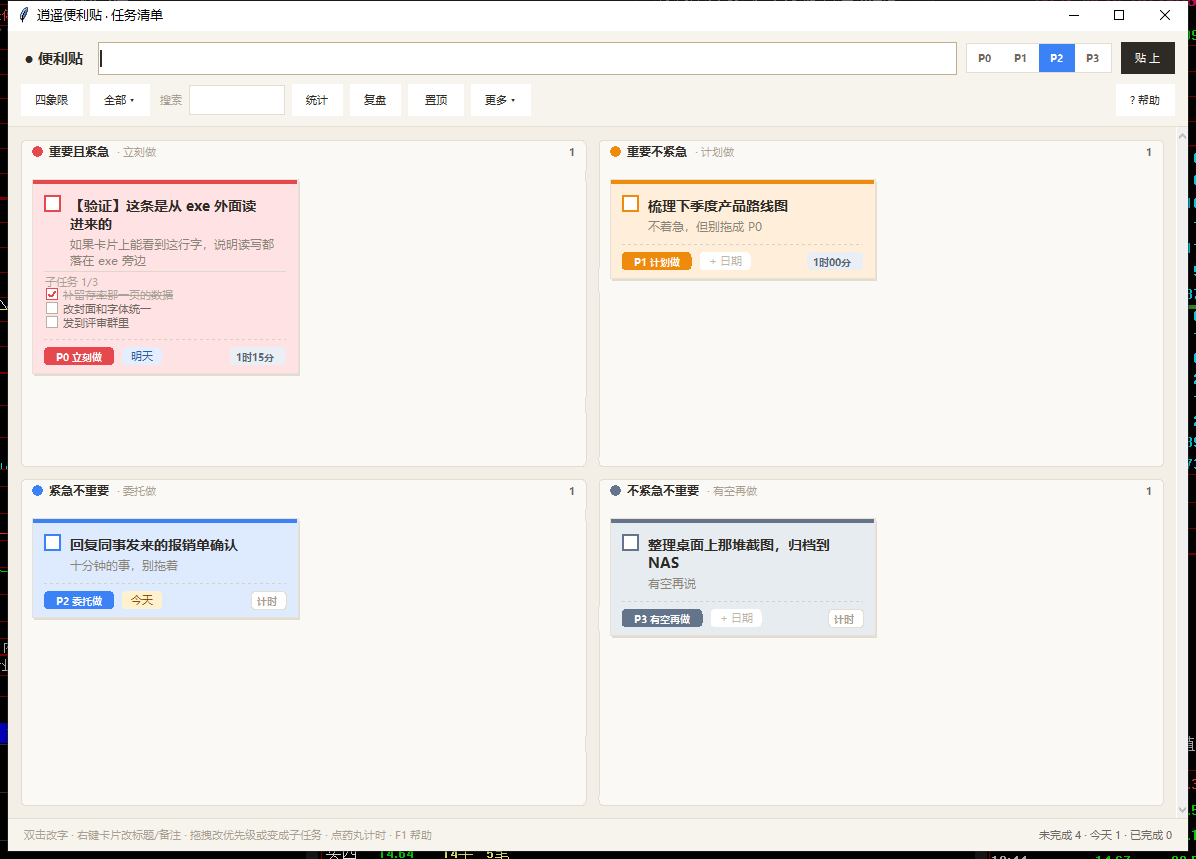
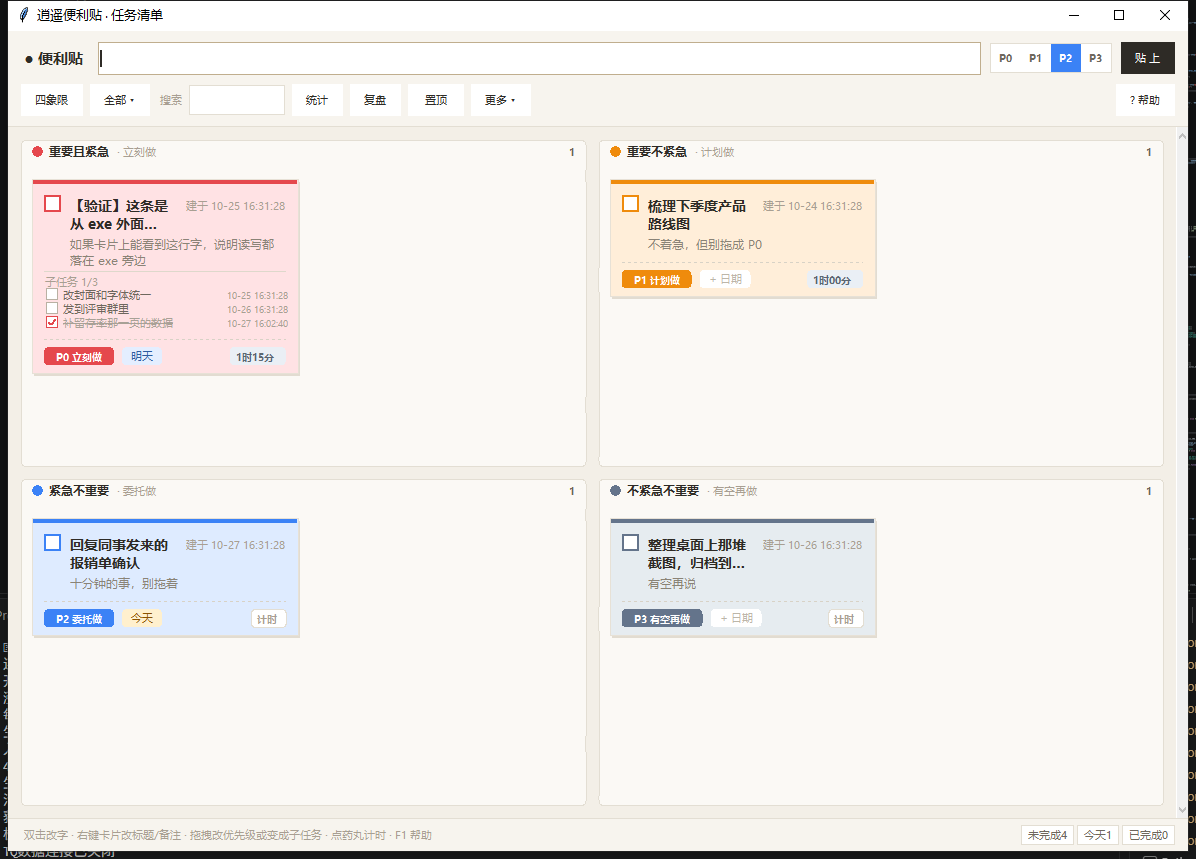
留一个真机按键探针：tools/realkey_delete.py
这次排查「选中后按 Delete 没反应」时写的。它做的是用户手上那件事：
真窗口、系统级鼠标点击（mouse_event）、系统级按键（keybd_event），
然后看任务有没有进回收站 —— 不是 event_generate，也不是直接调方法。

留着的原因：凡是"按了没反应 / 点了没反应"的报障，先跑它就能分清是
「事件根本没送到」还是「送到了但逻辑不对」。这次就是前者（焦点在输入框，
Entry 的 <Delete> 类绑定 return "break"，事件到不了 toplevel）。

用法：用系统 Python 跑（要 tkinter）—— python tools/realkey_delete.py
它会建临时目录、自己造一条任务，不碰仓库里的 tasks.json。

注：本轮只改 Python 版（aardio 版已冻结）

diff --git a/tools/realkey_delete.py b/tools/realkey_delete.py
@@ -1,0 +1,142 @@
+# -*- coding: utf-8 -*-
+"""真机验证：窗口建在本进程里，但按键走**系统级注入**（keybd_event），
+鼠标点击也走系统级注入 —— 这才是用户手指按下去的那条路径。
+
+用系统 Python 跑（有 tkinter）：python tools/realkey_delete.py
+
+为什么值得单独做一个：2026-10-27 报"选中后按 Delete 没反应"，根因是键盘焦点
+留在顶栏输入框上（tk 点 Canvas 不动焦点，Entry 的 <Delete> 类绑定 return "break"，
+事件到不了 toplevel）。进程内 event_generate 能测出来，但那是"事件直接生成"，
+不是"真的按了一下"。同类问题（任何"按了没反应"的键 / 鼠标）都可以照这个改。
+
+自测里已经用 event_generate 覆盖了这条路径，这个脚本是**额外**的一道：
+真要怀疑"事件到底传没传到"，就跑它。
+"""
+import ctypes
+import ctypes.wintypes as wt
+import importlib.util
+import os
+import shutil
+import sys
+import tempfile
+import time
+import tkinter as tk
+
+u32 = ctypes.windll.user32
+REPO = r"F:\workbuddy\2026-10-10-20-45-09\sticky-tasks"
+VK_DELETE = 0x2E
+
+
+def hwnd_of(w):
+    h = w.winfo_id()
+    return u32.GetAncestor(h, 2) or h
+
+
+def activate(hwnd):
+    tid_me = ctypes.windll.kernel32.GetCurrentThreadId()
+    tid_t = u32.GetWindowThreadProcessId(hwnd, None)
+    fg = u32.GetForegroundWindow()
+    tid_fg = u32.GetWindowThreadProcessId(fg, None)
+    if tid_t != tid_me:
+        u32.AttachThreadInput(tid_me, tid_t, True)
+    if tid_fg != tid_t:
+        u32.AttachThreadInput(tid_fg, tid_t, True)
+    u32.BringWindowToTop(hwnd)
+    u32.SetForegroundWindow(hwnd)
+    if tid_t != tid_me:
+        u32.AttachThreadInput(tid_me, tid_t, False)
+    if tid_fg != tid_t:
+        u32.AttachThreadInput(tid_fg, tid_t, False)
+
+
+def pump(root, sec=0.5):
+    end = time.time() + sec
+    while time.time() < end:
+        root.update()
+        time.sleep(0.02)
+
+
+def main():
+    tmp = tempfile.mkdtemp(prefix="realkey_")
+    shutil.copy(os.path.join(REPO, "sticky.pyw"), os.path.join(tmp, "sticky.pyw"))
+    spec = importlib.util.spec_from_file_location(
+        "sticky", os.path.join(tmp, "sticky.pyw"))
+    sticky = importlib.util.module_from_spec(spec)
+    spec.loader.exec_module(sticky)
+    sticky.DATA_FILE = os.path.join(tmp, "tasks.json")
+    sticky.APP_DIR = tmp
+
+    root = tk.Tk()
+    app = sticky.App(root)
+    root.geometry("1000x700+80+60")
+    pump(root, 0.8)
+
+    now = sticky.now_ts()
+    t = {"id": sticky.new_id(), "title": "真机按键删除测试", "note": "",
+         "p": 0, "due": "", "done": False, "order": 1.0, "subs": [],
+         "logs": {}, "timer": 0, "repeat": "", "done_at": 0,
+         "created_at": now, "remind_key": ""}
+    app.tasks = [t]
+    app.save()
+    app.redraw()
+    pump(root, 0.4)
+
+    hwnd = hwnd_of(root)
+    u32.SetWindowPos(hwnd, -1, 80, 60, 1000, 700, 0x0040)
+    activate(hwnd)
+    pump(root, 0.8)
+    app.redraw()
+    pump(root, 0.3)
+
+    print("窗口置前：", u32.GetForegroundWindow() == hwnd)
+    print("焦点在：", root.focus_get())
+
+    # 卡片左上角（画布坐标）→ 屏幕坐标
+    r = [x for x in app.regions if x[0] == "card" and x[1] == t["id"]][0]
+    others = [(a, b, c, d) for (k, i, a, b, c, d) in app.regions if k != "card"]
+    px = py = None
+    for ax, ay in ((r[4] - 14, r[5] - 8), (r[4] - 14, (r[3] + r[5]) / 2.0)):
+        if not any(a <= ax <= c and b <= ay <= d for (a, b, c, d) in others):
+            px, py = ax, ay
+            break
+    sx = app.cv.winfo_rootx() + int(px)
+    sy = app.cv.winfo_rooty() + int(py)
+    print("点屏幕坐标", sx, sy)
+
+    u32.SetCursorPos(sx, sy)
+    pump(root, 0.2)
+    u32.mouse_event(2, 0, 0, 0, 0)        # LEFTDOWN
+    pump(root, 0.1)
+    u32.mouse_event(4, 0, 0, 0, 0)        # LEFTUP
+    pump(root, 0.5)
+
+    selected = app.sel_tid == t["id"]
+    print("真的选中了吗：", selected, "| 点完焦点在：", root.focus_get())
+
+    # 系统级按一下 Delete
+    u32.keybd_event(VK_DELETE, 0, 0, 0)
+    pump(root, 0.1)
+    u32.keybd_event(VK_DELETE, 0, 0x0002, 0)
+    pump(root, 0.6)
+
+    gone = app.task_by_id(t["id"]) is None
+    n_trash = len(app.trash)
+    print("任务没了吗：", gone, "| 回收站：", n_trash, "条")
+    print("状态栏：", app.status.cget("text"))
+
+    # 落盘也看一眼（用户看到的是"关掉再开还在不在"）
+    import json
+    with open(sticky.DATA_FILE, encoding="utf-8") as f:
+        disk = json.load(f)
+    print("磁盘上：任务 %d 条 / 回收站 %d 条"
+          % (len(disk.get("tasks") or []), len(disk.get("trash") or [])))
+
+    ok = selected and gone and n_trash >= 1
+    print("真机按键删除：", "通过" if ok else "失败")
+    root.destroy()
+    shutil.rmtree(tmp, ignore_errors=True)
+    sys.exit(0 if ok else 1)
+
+
+if __name__ == "__main__":
+    main()
